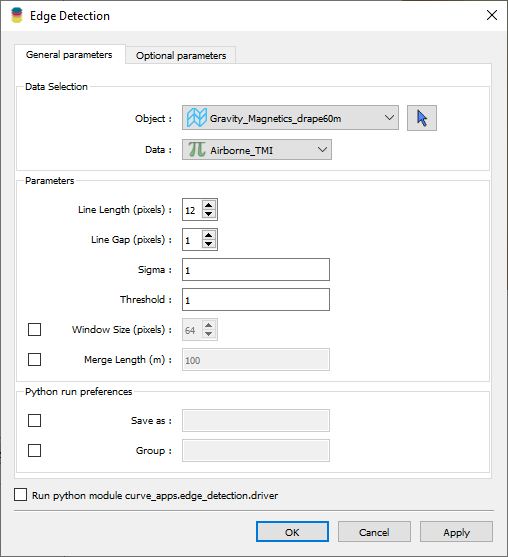
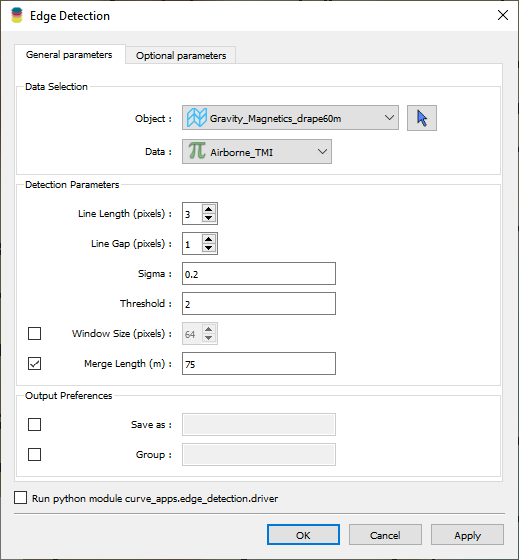
Add more content to edge detection docs

diff --git a/docs/source/edge_detection.rst b/docs/source/edge_detection.rst
@@ -34,7 +34,8 @@ Detection Parameters
 
 `Scikit-Image.transform.probabilistic_hough_line <https://scikit-image.org/docs/dev/api/skimage.transform.html#probabilistic-hough-line>`__
  - **Line length**: Filter for the minimum length (pixels) of detected lines. Increase the parameter to extract longer lines.
- - **Line gap**: Maximum gap between pixels to still form a line. Increase the parameter to merge broken lines more aggressively.
+ - **Line gap**: Maximum gap between pixels to still form a line.
+    Increase the parameter to create the number of segments that can be detected from disconnected edges.
  - **Threshold**: Threshold parameter used in the Hough Line Transform.
 
 
@@ -47,7 +48,7 @@ Detection Parameters
     merging fragmented lines that are close to each other but not connected.
 
 
-Output preferences
+Output Preferences
 ^^^^^^^^^^^^^^^^^^
 
  - **Save as**: Assign a specific name to the resulting ``Curve`` object.
@@ -81,10 +82,142 @@ main processing steps.
 [Optional] The resulting vertices defining the segments can be filtered to reduce the number of unique lines. Collocated
 vertices are merged if they are within a specified distance of each other. This is controlled by the `merge length <#Merge-Length>`__ parameter.
 
+The final output is a ``Curve`` object containing the detected lineaments.
+The orientation of the lines, in absolute degree from North [0, 90], and line length are stored as attributes of the ``Curve`` object.
 
 Example
 -------
 
+This section demonstrates the effect of various detection parameters on a training grid provided `here <https://github.com/MiraGeoscience/curve-apps/tree/main/edge_detection-assets>`__.
+The goal is to extract the lineaments from gridded magnetic field data. We begin with default parameters and then explore the effect of changing each parameter independently.
+
+.. list-table::
+   :widths: 25 25
+   :header-rows: 1
+
+   * - Gridded magnetic data
+     - Default parameters
+
+   * - .. figure:: ./images/edge_detection/example_grid.png
+            :align: center
+            :width: 300
+     - .. figure:: ./images/edge_detection/example_ui_default.png
+            :align: center
+            :width: 300
+
+
+Running the application with default parameters results in the following output.
+
+
+.. list-table::
+   :widths: 25 25
+   :header-rows: 1
+
+   * - Canny edges
+     - Hough Lines
+
+   * - .. figure:: ./images/edge_detection/example_canny_default.png
+            :align: center
+            :width: 300
+     - .. figure:: ./images/edge_detection/example_result_default.png
+            :align: center
+            :width: 300
+
+Sigma
+^^^^^
+
+The following figure shows the effect of increasing the ``sigma`` parameter in the Canny edge detection algorithm. For ``sigma=3`` we obtain:
+
+.. list-table::
+   :widths: 25 25
+   :header-rows: 1
+
+   * - Canny edges
+     - Hough Lines
+
+   * - .. figure:: ./images/edge_detection/example_canny_sigma3.png
+            :align: center
+            :width: 300
+     - .. figure:: ./images/edge_detection/example_result_sigma3.png
+            :align: center
+            :width: 300
+
+Note that fewer small edges were recovered by the Canny algorithm, resulting in fewer lines in the final output.
+
+Line Length
+^^^^^^^^^^^
+
+Next, we explore the effect of increasing the ``line length`` parameter in the Hough Line Transform. For ``line length=24`` we obtain:
+
+.. list-table::
+   :widths: 25 25
+   :header-rows: 1
+
+   * - With 12 pixels line length
+     - With 24 pixels line length
+
+   * - .. figure:: ./images/edge_detection/example_result_default.png
+            :align: center
+            :width: 300
+     - .. figure:: ./images/edge_detection/example_result_line24.png
+            :align: center
+            :width: 300
+
+Note that longer lines are extracted when increasing the ``line length`` parameter.
+
+Line Gap
+^^^^^^^^
+
+The following figure shows the effect of increasing the ``line gap`` parameter in the Hough Line Transform. For ``line gap=10`` we obtain:
+
+.. list-table::
+   :widths: 25 25
+   :header-rows: 1
+
+   * - With 1 pixels line gap
+     - With 4 pixels line gap
+
+   * - .. figure:: ./images/edge_detection/example_result_default.png
+            :align: center
+            :width: 300
+     - .. figure:: ./images/edge_detection/example_result_gap4.png
+            :align: center
+            :width: 300
+
+Note that increasing the ``line gap`` parameter results in increasing the number of detected lines.
+
+Threshold
+^^^^^^^^^
+
+To demonstrate the effect of the ``threshold`` parameter, we will change the detection parameters to increase the number small segments.
+The table below presents the parameters and comparative results for ``threshold=1`` and ``threshold=8``.
+
+.. list-table::
+   :widths: 25 25 25
+   :header-rows: 1
+
+   * - Detection parameters
+     - With ``threshold=1``
+     - With ``threshold=8``
+
+   * - .. figure:: ./images/edge_detection/edge_detection_threshold.png
+            :align: center
+            :width: 300
+     - .. figure:: ./images/edge_detection/example_result_threshold1.png
+            :align: center
+            :width: 300
+     - .. figure:: ./images/edge_detection/example_result_threshold8.png
+            :align: center
+            :width: 300
+
+
+Note that increasing the ``threshold`` parameter results in fewer output lines.
+
+
+Merge Length
+^^^^^^^^^^^^
+
+The following figure shows the effect of increasing the ``merge length`` parameter. For ``merge length=75`` we obtain:
 
 .. list-table::
    :widths: 25 25
@@ -98,6 +231,10 @@ Example
      - .. figure:: ./images/edge_detection/merge_length.png
             :align: center
             :width: 300
+
+
+Note that increasing the ``merge length`` parameter results in fewer output lines, and the segments are generally more continuous
+as more vertices are shared between lines.
 
 
 Need help? Contact us at support@mirageoscience.com
